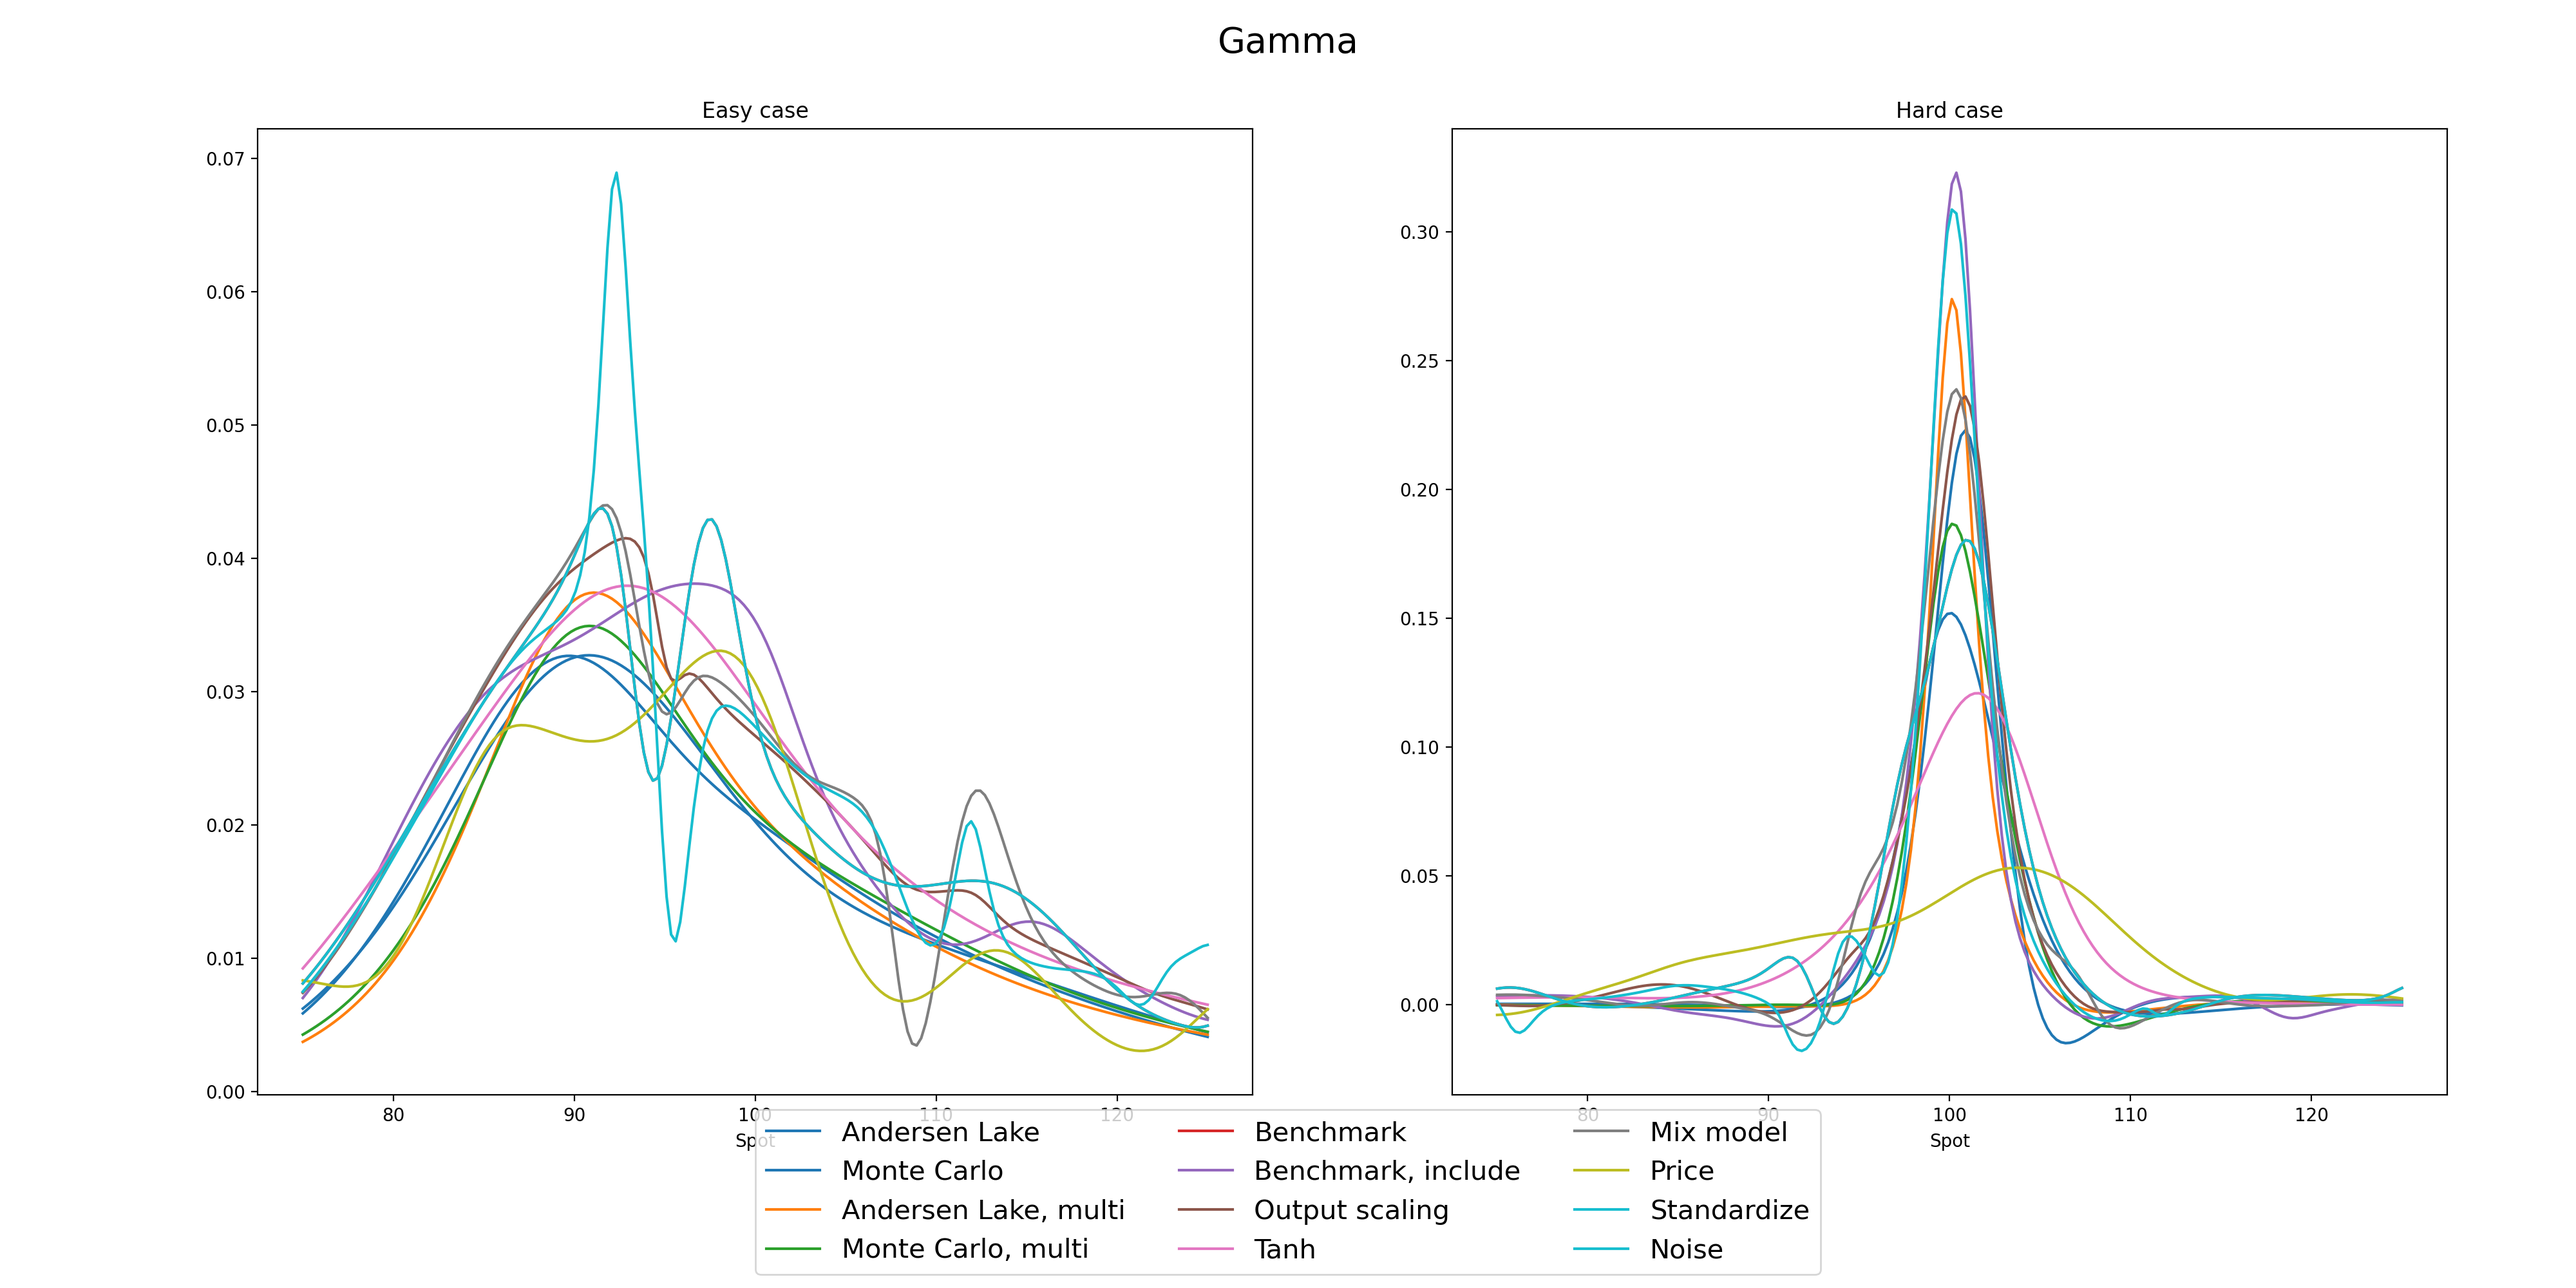
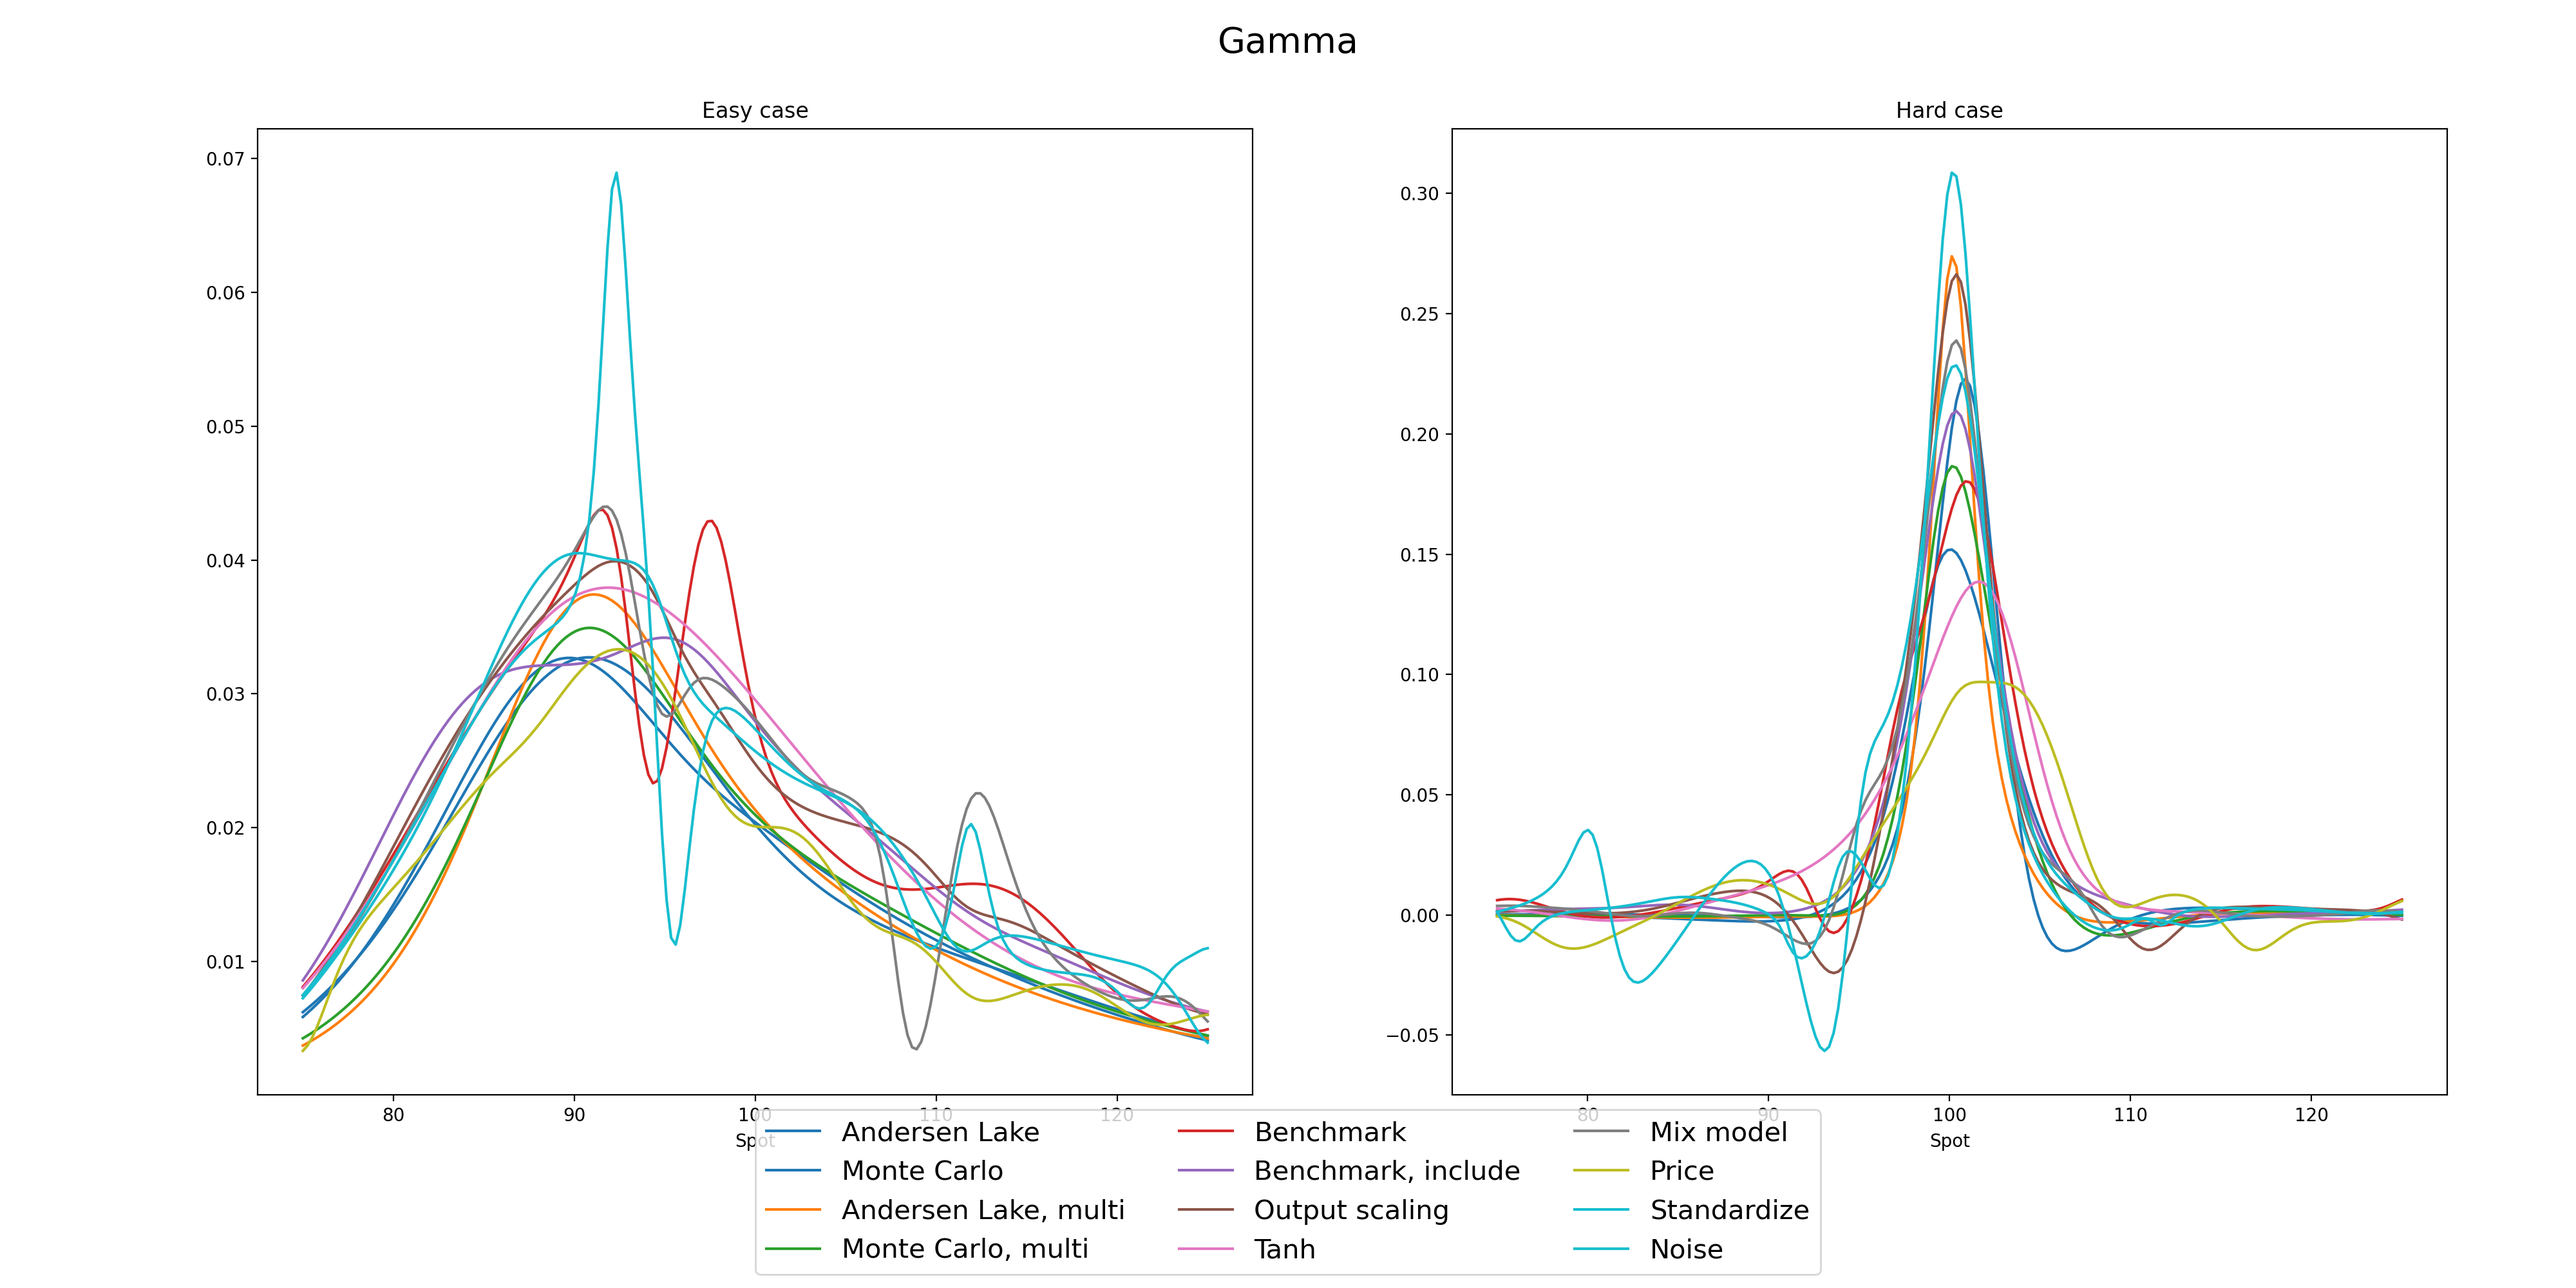
compute11

Changed region(s): [[0.5312, 0.155, 0.9375, 0.806], [0.0938, 0.403, 0.4688, 0.806]]

diff --git a/Thesis/Heston/ModelGenerator.py b/Thesis/Heston/ModelGenerator.py
@@ -110,9 +110,19 @@ if __name__ == '__main__':
         itertools.repeat("combined"), layer_neuron_combs[:, 0], layer_neuron_combs[:, 1], \
         itertools.repeat("mix"), itertools.repeat(True), itertools.repeat(True), itertools.repeat(False)))
 
+    noise_included_standard_list = list(zip(itertools.repeat(data_set_1), itertools.repeat("noise_included_standard"), \
+        itertools.repeat("noise_included_standard"), layer_neuron_combs[:, 0], layer_neuron_combs[:, 1], \
+        itertools.repeat("noise"), itertools.repeat(False), itertools.repeat(True), itertools.repeat(True)))
+
+    noise_included_list = list(zip(itertools.repeat(data_set_1), itertools.repeat("noise_included"), \
+        itertools.repeat("noise_included"), layer_neuron_combs[:, 0], layer_neuron_combs[:, 1], \
+        itertools.repeat("noise"), itertools.repeat(False), itertools.repeat(False), itertools.repeat(True)))
+
     compute10_list = benchmark_list + benchmark_include_list + output_scaling_list + tanh_list
     compute11_list = mix_list + price_list + standardize_list + noise_list
     next_list = price_output_scaling_list + combined_best_list + output_scaling_mix_list + standardize_mix_list
+
+    next_list_2 = noise_included_standard_list + noise_included_list
 
     if cpu_count() == 4:
         cpu_cores = 4
@@ -120,5 +130,5 @@ if __name__ == '__main__':
         cpu_cores = int(min(cpu_count()/4, 16))
 
     pool = Pool(cpu_cores)
-    res = pool.starmap(mg.NN_mc_model_1, next_list, chunksize=1)
+    res = pool.starmap(mg.NN_mc_model_1, next_list_2, chunksize=1)
     pool.close()

diff --git a/Thesis/Heston/MC_al.py b/Thesis/Heston/MC_al.py
@@ -424,25 +424,25 @@ if __name__ == "__main__":
     benchmark = "Models5/benchmark/benchmark_5_1000.h5"
     benchmark_dict = model_grads(benchmark, input_good_easy, input_good_hard, some_option)
 
-    benchmark_include = "Models5/benchmark_include/benchmark_include_5_1000.h5"
+    benchmark_include = "Models5/benchmark_include/benchmark_include_5_500.h5"
     benchmark_include_dict = model_grads(benchmark_include, input_good_easy, input_good_hard, some_option)
 
-    output_scaling = "Models5/output_scaling/output_scaling_4_500.h5"
+    output_scaling = "Models5/output_scaling/output_scaling_5_500.h5"
     output_scaling_dict = model_grads(output_scaling, input_good_easy, input_good_hard, some_option)
 
-    tanh = "Models5/tanh/tanh_4_50.h5"
+    tanh = "Models5/tanh/tanh_4_100.h5"
     tanh_dict = model_grads(tanh, input_good_easy, input_good_hard, some_option)
 
     mix = "Models5/mix/mix_5_1000.h5"
     mix_dict = model_grads(mix, input_good_easy, input_good_hard, some_option)
 
-    price = "Models5/price/price_2_1000.h5"
+    price = "Models5/price/price_3_1000.h5"
     price_dict = model_grads(price, input_good_easy, input_good_hard, some_option)
 
     standardize = "Models5/standardize/standardize_5_1000.h5"
     standardize_dict = model_grads(standardize, input_good_easy, input_good_hard, some_option)
 
-    noise = "Models5/benchmark/benchmark_5_1000.h5"
+    noise = "Models5/noise/noise_4_1000.h5"
     noise_dict = model_grads(noise, input_good_easy, input_good_hard, some_option)
 
     prediction_data = {

diff --git a/Thesis/Heston/ModelTesting.py b/Thesis/Heston/ModelTesting.py
@@ -318,8 +318,20 @@ def model_test_set(model_list : list, X_test : np.ndarray, Y_test : np.ndarray, 
     for model_string in model_list:
         if (model_string.find("price") != -1):
             y_test_loop = Y_test_price
+        else:
+            y_test_loop = Y_test
+       
         x_test_loop = X_test
-        y_test_loop = Y_test
+        
+
+        if (model_string.find("benchmark_include") != -1):
+            index = np.all(y_test_loop != -1, axis = 1)
+        else:
+            index = np.all(y_test_loop > -1, axis = 1)
+
+        x_test_loop = x_test_loop[index, :]
+        y_test_loop = y_test_loop[index, :]
+
         model = load_model(model_string)
         model_folder = model_string[:model_string.rfind("/") + 1]
         norm_feature = joblib.load(model_folder+"norm_feature.pkl")
@@ -423,6 +435,7 @@ if __name__ == "__main__":
     Y_test_price = price_1[test_index, :]
 
     combined_mse = model_test_set(combined_list, X_test, Y_test, Y_test_price)
+    combined_mse.sort(key = lambda x: -x[1])
 
     """
     ### New models
